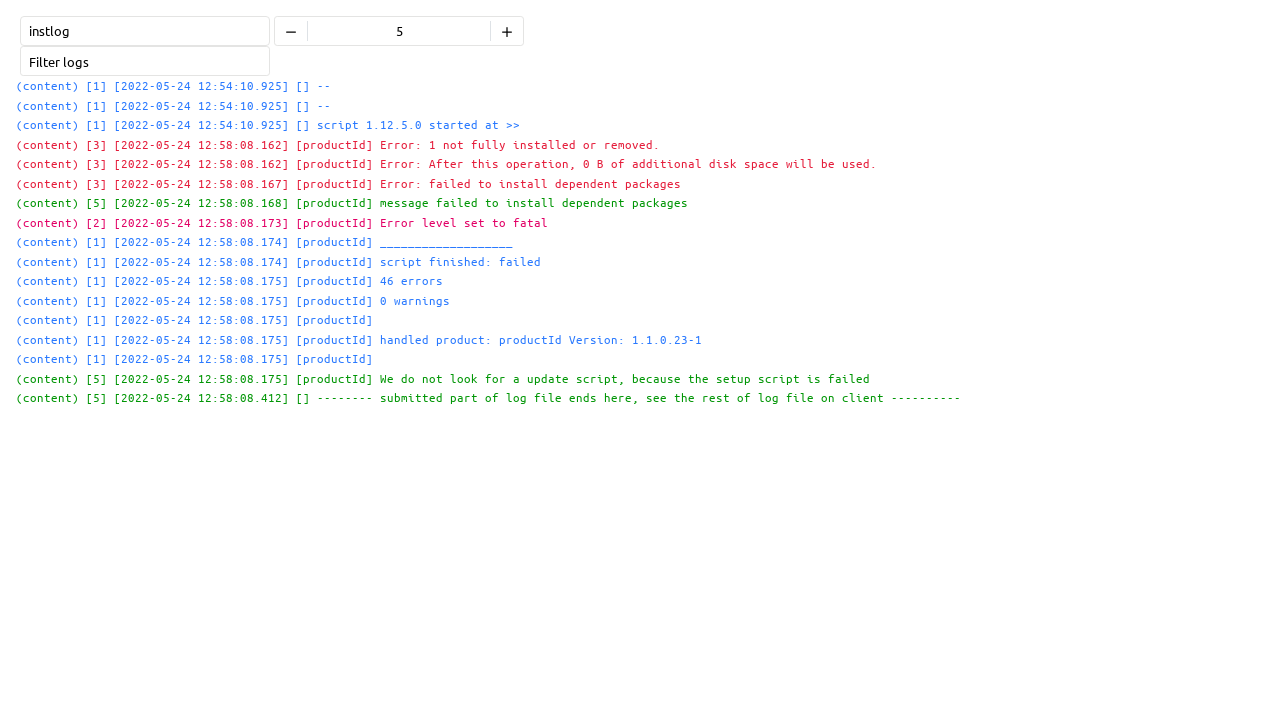
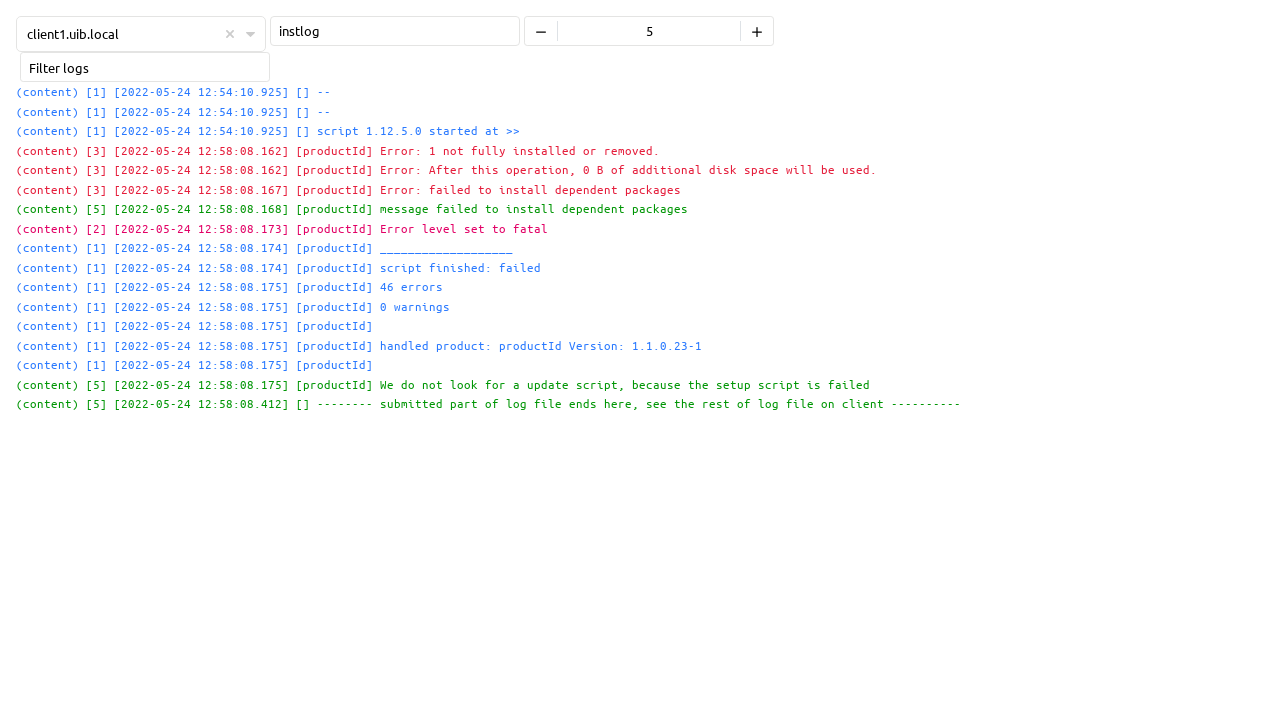
[fix] screenshot tests + styling
Former-commit-id: f5ac08822493c9c51742753eea47ed2f94739939

Changed region(s): [[0.0, 0.0306, 0.6875, 0.5806]]

diff --git a/opsiweb/uib-components/components/view/VClientsLog.stories.js b/opsiweb/uib-components/components/view/VClientsLog.stories.js
@@ -7,7 +7,13 @@ export default {
 }
 
 const PrimaryTemplate = () => ({
-  template: '<ViewVClientsLog id="client1" :testdata="mytestdata" :as-child="false" />',
+  template: `
+  <ViewVClientsLog id="client1" :as-child="false" :testdata="mytestdata">
+    <template slot="IDSelection">
+      <TreeTSClientsNotStored :id.sync="id" />
+    </template>
+  </ViewVClientsLog>
+  `,
   computed: {
     mytestdata () {
       return ['null',
